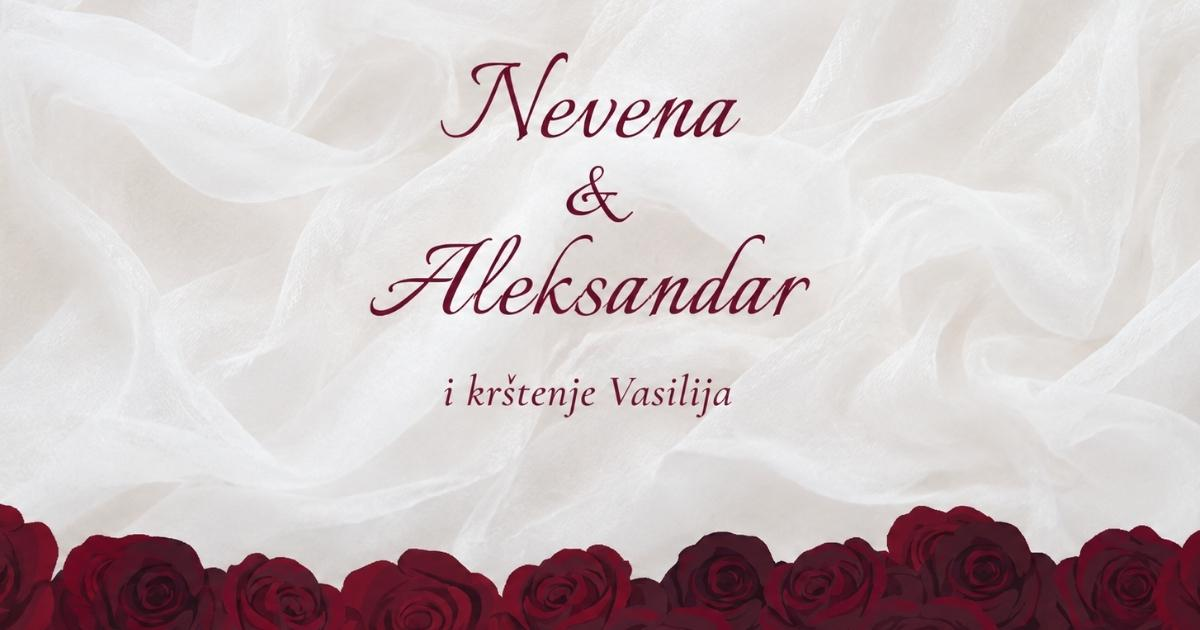
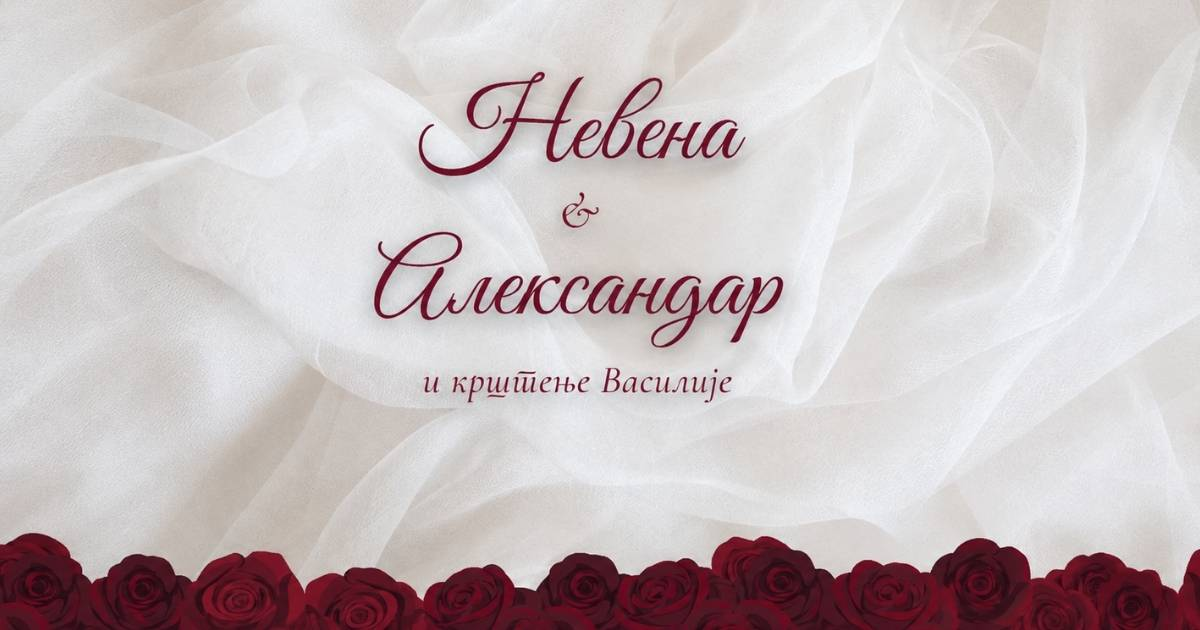
l

diff --git a/src/data/demoWedding.js b/src/data/demoWedding.js
@@ -1,3 +1,4 @@
+import { script } from "framer-motion/client";
 
 
 const createDetails = ({
@@ -7305,130 +7306,145 @@ dressCodeMenPalette: [
   slug: "nevena-aleksandar",
   type: "wedding",
   template: "split-video",
+  script: "cyrillic",
 
-  brideName: "Nevena",
-  groomName: "Aleksandar",
+  brideName: "Невена",
+  groomName: "Александар",
 
   videoSrc: "/videos/nevena-aleksandar.mp4",
- musicSrc: "/music/nevena-aleksandar.mp3",
-  weddingDate: "17 OKT 2026",
+  musicSrc: "/music/nevena-aleksandar.mp3",
+
+  weddingDate: "17 ОКТ 2026",
   weddingTime: "08:00",
-  venue: "Imperia Gold, Stepojevac",
-  uploadCoverImage: "/images/upload/birthday-glass-upload.jpg",
+  venue: "Империја Голд, Степојевац",
+
+  uploadCoverImage:
+    "/images/upload/birthday-glass-upload.jpg",
+
   introText:
-    "Radujemo se da ovaj poseban dan podelimo sa vama.",
+    "Радујемо се да овај посебан дан поделимо са вама.",
 
   details: createDetails({
     backgroundImage:
       "/images/nevena-aleksandar-split.jpg",
 
-    heroText: "i krštenje Vasilije",
+    heroText: "и крштење Василије",
 
     welcomeText:
-      "Sa velikom radošću vas pozivamo da zajedno sa nama proslavite naše venčanje i krštenje Vasilije.",
+      "Са великом радошћу вас позивамо да заједно са нама прославите наше венчање и крштење Василије.",
 
-    date: "17 OKT 2026",
+    date: "17 ОКТ 2026",
     dateISO: "2026-10-17T08:00:00+02:00",
 
     showCalendarButton: true,
     calendarDurationHours: 10,
 
     events: [
-  {
-    label: "Skup svatova kod mladoženje",
-    time: "08:00",
-    icon: "gathering",
-    location:
-      "Ugrinovački put 42. deo 12, Altina",
-    mapLink:
-      "https://www.google.com/maps/search/?api=1&query=Ugrinovacki+put+42+deo+12+Altina",
-    note:
-      "Okupljanje svatova i priprema za polazak po mladu.",
-  },
-  {
-    label: "Skup svatova kod mlade",
-    time: "09:30",
-    icon: "gathering",
-    location: "Kosjerička 6, Valjevo",
-    mapLink:
-      "https://www.google.com/maps/search/?api=1&query=Kosjericka+6+Valjevo",
-    note:
-      "Doček svatova kod mlade i zajedničko okupljanje pred ceremoniju.",
-  },
-  {
-    label:
-      "Crkveno venčanje i krštenje Vasilije",
-    time: "12:30",
-    icon: "church",
-    location:
-      "Crkva Svetog Velikomučenika Georgija, Valjevo",
-    mapLink:
-      "https://www.google.com/maps/search/?api=1&query=Crkva+Svetog+Velikomucenika+Georgija+Valjevo",
-    note:
-      "Svečani čin crkvenog venčanja i krštenja Vasilije.",
-  },
-  {
-    label: "Svečani ručak",
-    time: "15:00",
-    icon: "restaurant",
-    location: "Imperia Gold, Stepojevac",
-    mapLink:
-      "https://www.google.com/maps/search/?api=1&query=Imperia+Gold+Stepojevac",
-    note:
-      "Nakon ceremonije nastavljamo slavlje uz ručak, muziku i najdraže goste.",
-  },
-],
+      {
+        label: "Скуп сватова код младожење",
+        time: "08:00",
+        icon: "gathering",
+        location:
+          "Угриновачки пут 42. део 12, Алтина",
+        mapLink:
+          "https://www.google.com/maps/search/?api=1&query=Ugrinovacki+put+42+deo+12+Altina",
+        note:
+          "Окупљање сватова и припрема за полазак по младу.",
+      },
+      {
+        label: "Скуп сватова код младе",
+        time: "09:30",
+        icon: "gathering",
+        location: "Косјерићка 6, Ваљево",
+        mapLink:
+          "https://www.google.com/maps/search/?api=1&query=Kosjericka+6+Valjevo",
+        note:
+          "Дочек сватова код младе и заједничко окупљање пред церемонију.",
+      },
+      {
+        label:
+          "Црквено венчање и крштење Василије",
+        time: "12:30",
+        icon: "church",
+        location:
+          "Црква Светог великомученика Георгија, Ваљево",
+        mapLink:
+          "https://www.google.com/maps/search/?api=1&query=Crkva+Svetog+Velikomucenika+Georgija+Valjevo",
+        note:
+          "Свечани чин црквеног венчања и крштења Василије.",
+      },
+      {
+        label: "Свечани ручак",
+        time: "15:00",
+        icon: "restaurant",
+        location: "Империја Голд, Степојевац",
+        mapLink:
+          "https://www.google.com/maps/search/?api=1&query=Imperia+Gold+Stepojevac",
+        note:
+          "Након церемоније настављамо славље уз ручак, музику и најдраже госте.",
+      },
+    ],
 
-  theme: {
-  mainText: "#7b1234",
-  softText: "#243b6b",
-  scriptText: "#7b1234",
-  mutedText: "#7b1234",
+    theme: {
+      mainText: "#7b1234",
+      softText: "#243b6b",
+      scriptText: "#7b1234",
+      mutedText: "#7b1234",
 
-  accent: "#7b1234",
-  accentStrong: "#243b6b",
-  buttonText: "#ffffff",
+      accent: "#7b1234",
+      accentStrong: "#243b6b",
+      buttonText: "#ffffff",
 
-  cardBg: "rgba(255,255,255,0.28)",
-  cardBorder: "transparent",
-  frameBorder: "rgba(123,18,52,0.20)",
+      cardBg: "rgba(255,255,255,0.28)",
+      cardBorder: "transparent",
+      frameBorder: "rgba(123,18,52,0.20)",
 
-  paperOverlayTop: "rgba(255,255,255,0.03)",
-paperOverlayBottom: "rgba(36,59,107,0.06)",
-  vignetteColor: "rgba(123,18,52,0.08)",
+      paperOverlayTop:
+        "rgba(255,255,255,0.03)",
+      paperOverlayBottom:
+        "rgba(36,59,107,0.06)",
+      vignetteColor:
+        "rgba(123,18,52,0.08)",
 
-  flowLine: "#7b1234",
-  dividerLine: "rgba(123,18,52,0.25)",
-  nodeRing: "rgba(181,144,59,0.16)",
-backgroundColor: "#f3ece6",
-  /* INTRO */
-  introMainText:"#7b1234",
-  introAccent: "#7b1234",
-  introButtonBg: "rgba(255,255,255,0.18)",
-  introButtonBorder: "rgba(255,255,255,0.35)",
-introButtonText: "#ffffff",
-  introButtonHoverBg: "rgba(255,255,255,0.28)",
+      flowLine: "#7b1234",
+      dividerLine:
+        "rgba(123,18,52,0.25)",
+      nodeRing:
+        "rgba(181,144,59,0.16)",
 
-  /* RSVP */
-  rsvpButtonBg: "#7b1234",
-  rsvpButtonText: "#ffffff",
-},
+      backgroundColor: "#f3ece6",
+
+      /* INTRO */
+      introMainText: "#7b1234",
+      introAccent: "#7b1234",
+      introButtonBg:
+        "rgba(255,255,255,0.18)",
+      introButtonBorder:
+        "rgba(255,255,255,0.35)",
+      introButtonText: "#ffffff",
+      introButtonHoverBg:
+        "rgba(255,255,255,0.28)",
+
+      /* RSVP */
+      rsvpButtonBg: "#7b1234",
+      rsvpButtonText: "#ffffff",
+    },
 
     showDressCode: false,
     dressCodeTitle: "",
     dressCodePalette: [],
     dressCodeNote: "",
 
-    venue: "Imperia Gold, Stepojevac",
+    venue: "Империја Голд, Степојевац",
 
     mapLink:
       "https://www.google.com/maps/search/?api=1&query=Imperia+Gold+Stepojevac",
 
     note:
-      "Molimo vas da svoj dolazak potvrdite najkasnije do 5. oktobra.",
+      "Молимо вас да свој долазак потврдите најкасније до 5. октобра.",
 
     rsvpText:
-      "Molimo vas da svoj dolazak potvrdite najkasnije do 5. oktobra.",
+      "Молимо вас да свој долазак потврдите најкасније до 5. октобра.",
   }),
 },
 

diff --git a/public/nevena-aleksandar.html b/public/nevena-aleksandar.html
@@ -1,15 +1,15 @@
 <!doctype html>
-<html lang="sr">
+<html lang="sr-Cyrl">
   <head>
     <meta charset="UTF-8" />
 
     <title>
-      Nevena i Aleksandar - Venčanje i krštenje Vasilija
+      Невена и Александар - Венчање и крштење Василије
     </title>
 
     <meta
       name="description"
-      content="Kliknite i otvorite digitalnu pozivnicu za venčanje Nevene i Aleksandra i krštenje Vasilija."
+      content="Кликните и отворите дигиталну позивницу за венчање Невене и Александра и крштење Василије."
     />
 
     <!-- OG -->
@@ -17,12 +17,12 @@
 
     <meta
       property="og:title"
-      content="Nevena i Aleksandar - Venčanje i krštenje Vasilija"
+      content="Невена и Александар - Венчање и крштење Василије"
     />
 
     <meta
       property="og:description"
-      content="Kliknite i otvorite digitalnu pozivnicu za venčanje Nevene i Aleksandra i krštenje Vasilija."
+      content="Кликните и отворите дигиталну позивницу за венчање Невене и Александра и крштење Василије."
     />
 
     <meta
@@ -47,12 +47,12 @@
 
     <meta
       name="twitter:title"
-      content="Nevena i Aleksandar - Venčanje i krštenje Vasilija"
+      content="Невена и Александар - Венчање и крштење Василије"
     />
 
     <meta
       name="twitter:description"
-      content="Kliknite i otvorite digitalnu pozivnicu za venčanje Nevene i Aleksandra i krštenje Vasilija."
+      content="Кликните и отворите дигиталну позивницу за венчање Невене и Александра и крштење Василије."
     />
 
     <meta

diff --git a/src/styles/card.css b/src/styles/card.css
@@ -21964,3 +21964,33 @@ font-family: "Italianno", cursive;
 .minimal-slug-marija-nikola .minimal-invitation-text {
   white-space: pre-line;
 }
+
+/* Невена и Александар — pisani font na vrhu kartice */
+.split-video-nevena-aleksandar
+  .split-video-invitation-names.top
+  .split-video-name {
+  font-family: "Great Vibes", cursive !important;
+  font-weight: 400 !important;
+  font-style: normal;
+  letter-spacing: 0.01em;
+  line-height: 0.92;
+}
+
+/* Ampersand može ostati u elegantnom serif fontu */
+.split-video-nevena-aleksandar
+  .split-video-invitation-and {
+  font-family:
+    "Cormorant Garamond",
+    Georgia,
+    serif !important;
+  font-style: italic;
+  font-weight: 400;
+}
+
+@media (max-width: 480px) {
+  .split-video-nevena-aleksandar
+    .split-video-invitation-names.top
+    .split-video-name {
+    line-height: 0.95;
+  }
+}

diff --git a/src/styles/intro.css b/src/styles/intro.css
@@ -9157,3 +9157,26 @@ body,
     letter-spacing: 0.02em;
   }
 }
+/* Pisana ćirilična imena samo za Nevenu i Aleksandra */
+/* Pisana ćirilična imena samo za Nevenu i Aleksandra */
+.split-video-intro--nevena-aleksandar
+  .split-person-name {
+  font-family: "Great Vibes", cursive !important;
+
+  font-size: 1.08em;
+  font-weight: 200 !important;
+  font-style: normal;
+
+  line-height: 0.9;
+  letter-spacing: 0.01em;
+
+  white-space: nowrap;
+}
+
+@media (max-width: 480px) {
+  .split-video-intro--nevena-aleksandar
+    .split-person-name {
+    font-size: 0.9em;
+    line-height: 0.72;
+  }
+}

diff --git a/src/components/SplitVideoIntro.jsx b/src/components/SplitVideoIntro.jsx
@@ -122,13 +122,17 @@ function SplitVideoIntro({
       />
 
       <div className="split-names">
-        <span>{brideName}</span>
+        <span className="split-person-name">
+          {brideName}
+        </span>
 
         <span className="split-and">
           {t.and}
         </span>
 
-        <span>{groomName}</span>
+        <span className="split-person-name">
+          {groomName}
+        </span>
 
         {introExtraText && (
           <motion.span

diff --git a/src/components/SplitVideoInvitationCard.jsx b/src/components/SplitVideoInvitationCard.jsx
@@ -22,7 +22,7 @@ function SplitVideoInvitationCard({
 
   const t = isCyrillic
     ? {
-        welcome: "Добро дошли",
+        welcome: "Добродошли",
         day: "Дан",
         year: "Година",
         location: "Локација",
